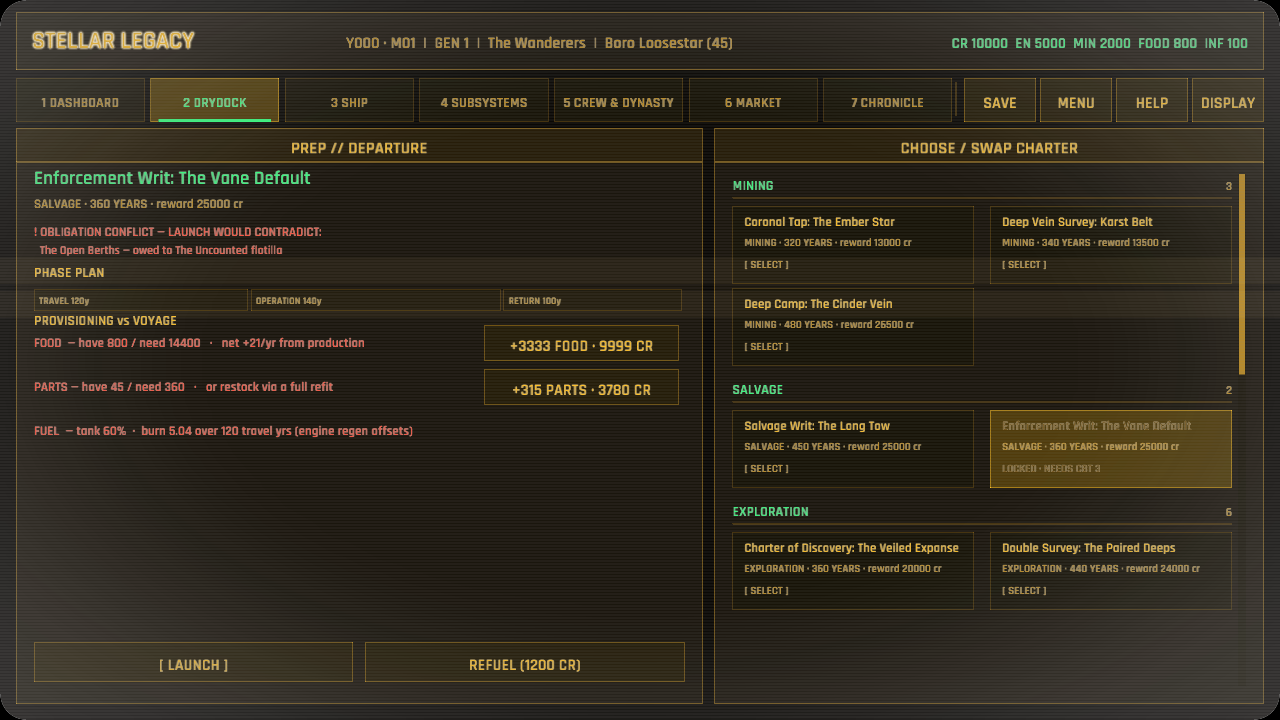
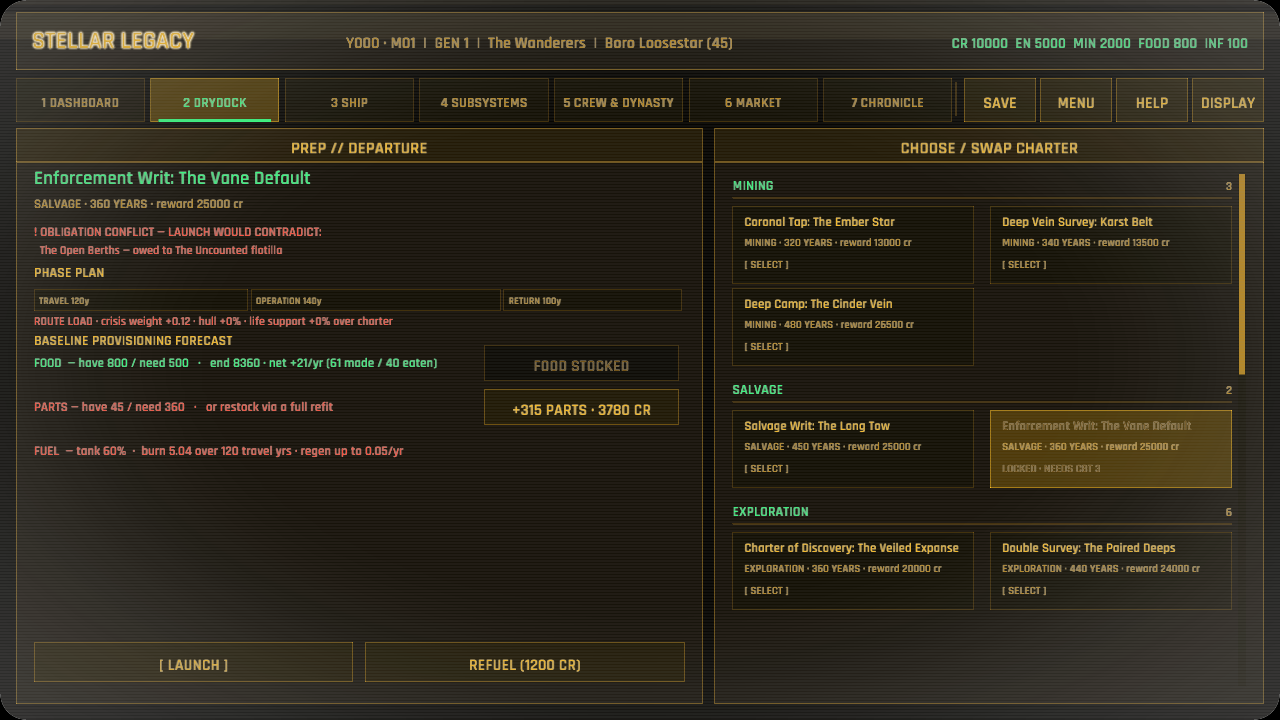
The departure board measures the dark before casting off (GDD 5.1 <-> 5.2)
PREP compared stores with gross centuries of consumption, ignored the agriculture system that replaces food underway, quoted food at the raw ticker rather than the terms actually charged, and left route hazard and standing tolls implicit.

A read-only departure forecast now holds the current ship state steady to project food output, consumption, route tolls, survival reserve, parts upkeep, engineering-adjusted fuel burn and scoop rate, and whole-charter hull and air tolls. PREP presents those values as a clearly labeled baseline and its one-tap food stocking uses the exact market quote.

Focused tests cover productive reserves, degraded-engine fuel forecasts, and cumulative route tolls. The refreshed 1280x720 PREP capture remains legible; 414 tests pass with one release analysis ignored, clippy is warning-free, and .\\publish.ps1 completed Windows and WebGL preview packages.

Changed region(s): [[0.0312, 0.4278, 0.3438, 0.6417], [0.375, 0.4583, 0.5312, 0.5806]]

diff --git a/src/ui/prep.rs b/src/ui/prep.rs
@@ -4,8 +4,6 @@
 //! [ LAUNCH ] button. Pure view — it emits `SelectCharter` / `Launch` /
 //! `Refuel` / `Buy` / `BuyParts` only.
 
-use crate::data::contracts::ContractPhase;
-use crate::simulation::crew::production_multipliers;
 use crate::state::sim::TradeResource;
 use crate::ui::{term, term_button, term_panel, GameplayCtx, UiAction};
 use macroquad::prelude::*;
@@ -63,6 +61,7 @@ fn draw_prep(ctx: &GameplayCtx<'_>, rect: Rect, pointer: Pointer, actions: &mut 
         return;
     };
     let config = &ctx.data.config;
+    let forecast = crate::simulation::contract::forecast::for_departure(sim, ctx.data, template);
 
     term_panel(rect, Some("PREP // DEPARTURE"));
     let content = rect.inset(18.0);
@@ -140,16 +139,35 @@ fn draw_prep(ctx: &GameplayCtx<'_>, rect: Rect, pointer: Pointer, actions: &mut 
     }
     y += 36.0;
 
+    draw_ui_text_ex(
+        &format!(
+            "ROUTE LOAD · crisis weight +{:.2} · hull {:+.0}% · life support {:+.0}% over charter",
+            template.hazard,
+            forecast.route_hull_change * 100.0,
+            forecast.route_life_support_change * 100.0
+        ),
+        content.x,
+        y,
+        TextStyle::new(
+            12.0,
+            if template.hazard > 0.0 || !template.annual_toll.is_none() {
+                term::alert()
+            } else {
+                term::dim()
+            },
+        )
+        .params(),
+    );
+    y += 20.0;
+
     // --- Provisioning readout ---
     draw_ui_text_ex(
-        "PROVISIONING vs VOYAGE",
+        "BASELINE PROVISIONING FORECAST",
         content.x,
         y,
         TextStyle::new(14.0, term::primary()).params(),
     );
     y += 22.0;
-    let dur = template.target_duration_years as f32;
-
     // Each provisioning row carries its own stock-up button so filling the
     // stores never means leaving the PREP screen.
     // 36 tall on a PROVISION_STRIDE row: the 8px it leaves is what the touch
@@ -157,30 +175,36 @@ fn draw_prep(ctx: &GameplayCtx<'_>, rect: Rect, pointer: Pointer, actions: &mut 
     // standard asks for. This screen had the room; the CREW posts column did not.
     let stock_btn = |y: f32| Rect::new(content.right() - 200.0, y - 22.0, 194.0, 36.0);
 
-    // Food: need over the whole voyage vs stores, plus the net yearly balance
-    // production offsets it by (crew-multiplied). The button buys the shortfall
-    // at market price, capped at what the treasury can afford.
-    let food_need = (sim.population.count as f32 * config.food_per_person_per_year * dur) as i64;
-    let food_mult = production_multipliers(sim, ctx.data).food;
-    let net_food = sim.production.food * food_mult
-        - sim.population.count as f32 * config.food_per_person_per_year;
+    // Food: a current-state projection that includes crew skill, agriculture
+    // tier/condition, consumption, and a standing route toll. This is a useful
+    // reserve rather than gross centuries of consumption that onboard farms
+    // will replace. Events and future deterioration remain explicitly outside
+    // the baseline.
+    let food_need = forecast.recommended_food_store;
     provision_line(
         content.x,
         y,
         "FOOD ",
         sim.resources.food,
         food_need,
-        &format!("net {net_food:+.0}/yr from production"),
+        &format!(
+            "end {} · net {:+}/yr ({} made / {} eaten)",
+            forecast.projected_food_end,
+            forecast.annual_food_net,
+            forecast.annual_food_output,
+            forecast.annual_food_use
+        ),
     );
     let food_short = (food_need - sim.resources.food).max(0);
-    let food_price = crate::simulation::market::price_of(sim, TradeResource::Food);
-    let food_afford = if food_price > 0.0 {
-        (sim.resources.credits as f32 / food_price).floor() as i64
+    let unit_quote = crate::simulation::market::buy_quote(sim, TradeResource::Food, 1);
+    let food_afford = if unit_quote.effective_unit_price > 0.0 {
+        (sim.resources.credits as f32 / unit_quote.effective_unit_price).floor() as i64
     } else {
         0
     };
     let food_buy = food_short.min(food_afford);
-    let food_cost = (food_price * food_buy as f32).ceil() as i64;
+    let food_cost =
+        crate::simulation::market::buy_quote(sim, TradeResource::Food, food_buy).total_credits;
     let food_label = if food_short == 0 {
         "FOOD STOCKED".to_owned()
     } else if food_buy <= 0 {
@@ -195,7 +219,7 @@ fn draw_prep(ctx: &GameplayCtx<'_>, rect: Rect, pointer: Pointer, actions: &mut 
 
     // Spare parts: yearly upkeep across the voyage vs stores. The button stocks
     // the shortfall at the drydock part price, capped by the treasury.
-    let parts_need = config.parts_upkeep_per_year * template.target_duration_years as i64;
+    let parts_need = forecast.parts_upkeep;
     provision_line(
         content.x,
         y,
@@ -226,13 +250,6 @@ fn draw_prep(ctx: &GameplayCtx<'_>, rect: Rect, pointer: Pointer, actions: &mut 
 
     // Fuel: burned only across Travel months; the tank caps at 1.0 and the
     // engine regen tops it up underway, so need can exceed a single tank.
-    let travel_months: u32 = template
-        .phases
-        .iter()
-        .filter(|p| p.kind == ContractPhase::Travel)
-        .map(|p| p.years * 12)
-        .sum();
-    let fuel_need = config.provisioning.fuel_burn_per_travel_month * travel_months as f32;
     let fuel_color = if sim.ship.fuel < 1.0 {
         term::alert()
     } else {
@@ -240,10 +257,11 @@ fn draw_prep(ctx: &GameplayCtx<'_>, rect: Rect, pointer: Pointer, actions: &mut 
     };
     draw_ui_text_ex(
         &format!(
-            "FUEL  — tank {:.0}%  ·  burn {:.2} over {} travel yrs (engine regen offsets)",
+            "FUEL  — tank {:.0}%  ·  burn {:.2} over {} travel yrs · regen up to {:.2}/yr",
             sim.ship.fuel * 100.0,
-            fuel_need,
-            travel_months / 12
+            forecast.fuel_burn,
+            forecast.travel_years,
+            forecast.fuel_regen_per_year
         ),
         content.x,
         y,

diff --git a/src/simulation/contract/forecast.rs b/src/simulation/contract/forecast.rs
@@ -1,0 +1,92 @@
+//! Read-only departure forecasting for the PREP dossier.
+//!
+//! This is deliberately a baseline projection, not a promise: it holds current
+//! population, crew, subsystem condition, and route terms steady. Events and
+//! later deterioration remain the uncertainty a generational voyage is about.
+
+use crate::data::contracts::{ContractPhase, ContractTemplate};
+use crate::data::GameData;
+use crate::simulation::{crew, ship, subsystems};
+use crate::state::sim::SimState;
+
+#[derive(Debug, Clone, PartialEq)]
+pub struct DepartureForecast {
+    pub duration_years: u32,
+    pub travel_years: u32,
+    pub annual_food_output: i64,
+    pub annual_food_use: i64,
+    pub annual_route_food: i64,
+    pub annual_food_net: i64,
+    pub projected_food_end: i64,
+    pub recommended_food_store: i64,
+    pub parts_upkeep: i64,
+    pub fuel_burn: f32,
+    pub fuel_regen_per_year: f32,
+    pub route_hull_change: f32,
+    pub route_life_support_change: f32,
+}
+
+pub fn for_departure(
+    sim: &SimState,
+    data: &GameData,
+    template: &ContractTemplate,
+) -> DepartureForecast {
+    let duration_years = template.target_duration_years;
+    let travel_years = template
+        .phases
+        .iter()
+        .filter(|phase| phase.kind == ContractPhase::Travel)
+        .map(|phase| phase.years)
+        .sum::<u32>();
+    let crew_mult = crew::production_multipliers(sim, data);
+    let agriculture_bonus = subsystems::agriculture_food_bonus(sim, data);
+    let agriculture_condition = subsystems::agriculture_condition_food_factor(sim, data);
+    let annual_food_output =
+        (sim.production.food * crew_mult.food * (1.0 + agriculture_bonus) * agriculture_condition)
+            .floor() as i64;
+    let annual_food_use =
+        (sim.population.count as f32 * data.config.food_per_person_per_year).ceil() as i64;
+    let annual_route_food = template.annual_toll.resource.food;
+    let annual_food_net = annual_food_output - annual_food_use + annual_route_food;
+    let voyage_food_change = annual_food_net.saturating_mul(duration_years as i64);
+    let projected_food_end = sim.resources.food.saturating_add(voyage_food_change);
+    // Keep a survival reserve at least as large as both the game's lean-food
+    // line and one present-day year of consumption. If current production is a
+    // surplus, the reserve—not the voyage's gross consumption—is what must sail.
+    let food_reserve = data.config.low_food_threshold.max(annual_food_use);
+    let recommended_food_store =
+        food_reserve.saturating_add(voyage_food_change.saturating_neg().max(0));
+
+    let parts_upkeep = data
+        .config
+        .parts_upkeep_per_year
+        .saturating_mul(duration_years as i64);
+    let engineering_burn = subsystems::engineering_fuel_burn_factor(sim, data);
+    let fuel_burn = data.config.provisioning.fuel_burn_per_travel_month
+        * (travel_years * 12) as f32
+        * engineering_burn;
+    let stats = ship::loadout_stats(sim, data);
+    let fuel_regen_per_year = stats.fuel_regen.max(0) as f32
+        * data.config.ship.fuel_regen_per_point
+        * subsystems::engineering_fuel_regen_factor(sim, data);
+    let years = duration_years as f32;
+
+    DepartureForecast {
+        duration_years,
+        travel_years,
+        annual_food_output,
+        annual_food_use,
+        annual_route_food,
+        annual_food_net,
+        projected_food_end,
+        recommended_food_store,
+        parts_upkeep,
+        fuel_burn,
+        fuel_regen_per_year,
+        route_hull_change: template.annual_toll.ship.hull_integrity * years,
+        route_life_support_change: template.annual_toll.ship.life_support * years,
+    }
+}
+
+#[cfg(test)]
+mod tests;

diff --git a/src/simulation/contract/forecast/tests.rs b/src/simulation/contract/forecast/tests.rs
@@ -1,0 +1,66 @@
+use super::*;
+
+fn campaign(data: &GameData) -> SimState {
+    SimState::new_campaign(
+        data,
+        "preservers",
+        81,
+        &crate::state::sim::founding_faction_ids(data),
+    )
+}
+
+#[test]
+fn productive_ship_recommends_a_reserve_not_gross_centuries_of_food() {
+    let data = GameData::load().unwrap();
+    let mut sim = campaign(&data);
+    sim.production.food = 10_000.0;
+    let template = data.contracts.get("deep_vein_survey").unwrap();
+
+    let forecast = for_departure(&sim, &data, template);
+
+    assert!(forecast.annual_food_net > 0);
+    assert_eq!(
+        forecast.recommended_food_store,
+        data.config.low_food_threshold.max(forecast.annual_food_use)
+    );
+    assert!(
+        forecast.recommended_food_store < forecast.annual_food_use * forecast.duration_years as i64,
+        "production should prevent the dossier demanding gross voyage consumption"
+    );
+}
+
+#[test]
+fn failing_engineering_worsens_both_sides_of_the_fuel_forecast() {
+    let data = GameData::load().unwrap();
+    let sound = campaign(&data);
+    let mut failing = sound.clone();
+    failing
+        .subsystems
+        .get_mut("engineering_bay")
+        .unwrap()
+        .condition = 0.0;
+    let template = data.contracts.get("deep_vein_survey").unwrap();
+
+    let sound = for_departure(&sound, &data, template);
+    let failing = for_departure(&failing, &data, template);
+
+    assert!(failing.fuel_burn > sound.fuel_burn);
+    assert!(failing.fuel_regen_per_year < sound.fuel_regen_per_year);
+}
+
+#[test]
+fn route_tolls_are_projected_across_the_whole_charter() {
+    let data = GameData::load().unwrap();
+    let sim = campaign(&data);
+    let template = data.contracts.get("coronal_tap").unwrap();
+    let forecast = for_departure(&sim, &data, template);
+
+    assert_eq!(
+        forecast.route_hull_change,
+        template.annual_toll.ship.hull_integrity * template.target_duration_years as f32
+    );
+    assert_eq!(
+        forecast.route_life_support_change,
+        template.annual_toll.ship.life_support * template.target_duration_years as f32
+    );
+}

diff --git a/src/simulation/contract.rs b/src/simulation/contract.rs
@@ -4,6 +4,8 @@ use crate::data::contracts::{ContractPhase, ContractTemplate, MetricKind};
 use crate::data::ResourceDelta;
 use crate::state::sim::{ActiveContract, MetricState, MilestoneState, SimState};
 
+pub mod forecast;
+
 #[derive(Debug, Clone, Copy, PartialEq, Eq)]
 pub enum SuccessLevel {
     Complete,
